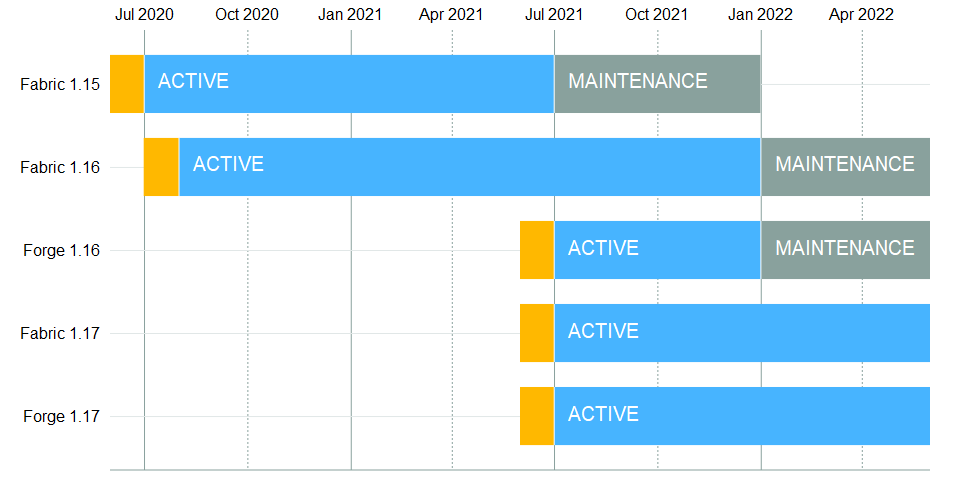
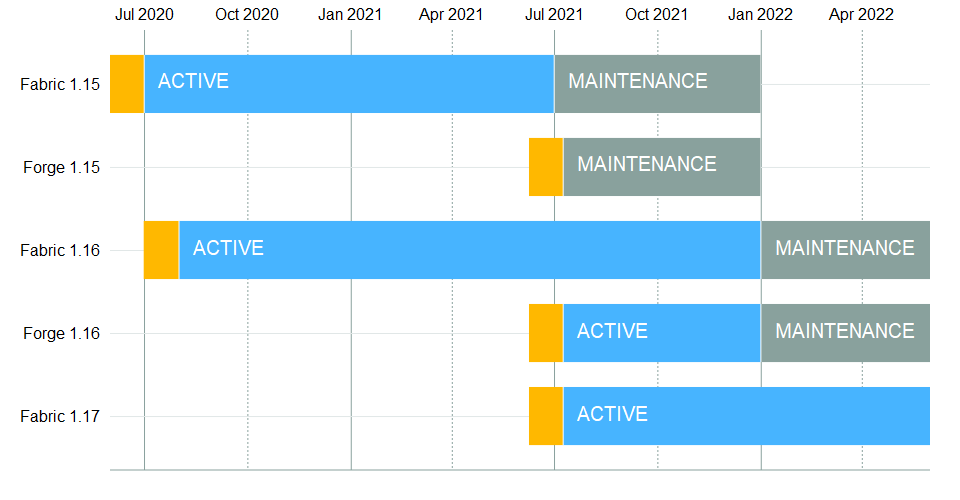
Update armor-visibility dates

diff --git a/out/armor-visibility.html b/out/armor-visibility.html
@@ -34,4 +34,4 @@
   text-anchor: start;
   dominant-baseline: middle;
   text-transform: uppercase;
-} ]]></style></defs><g id="bar-container" transform="translate(110, 30)"><g class="axis axis--x" fill="none" font-size="10" font-family="sans-serif" text-anchor="middle"><g class="tick" opacity="1" transform="translate(34.02625570776256,0)"><line stroke="#89a19d" y2="440" x1="0.5" x2="0.5"></line><text fill="#000" y="0" x="0.5" dy="-10">Jul 2020</text></g><g class="tick" opacity="1" transform="translate(137.36872146118722,0)"><line stroke="#89a19d" y2="440" x1="0.5" x2="0.5" stroke-dasharray="2,2"></line><text fill="#000" y="0" x="0.5" dy="-10">Oct 2020</text></g><g class="tick" opacity="1" transform="translate(240.75799086757988,0)"><line stroke="#89a19d" y2="440" x1="0.5" x2="0.5"></line><text fill="#000" y="0" x="0.5" dy="-10">Jan 2021</text></g><g class="tick" opacity="1" transform="translate(341.8070776255708,0)"><line stroke="#89a19d" y2="440" x1="0.5" x2="0.5" stroke-dasharray="2,2"></line><text fill="#000" y="0" x="0.5" dy="-10">Apr 2021</text></g><g class="tick" opacity="1" transform="translate(444.0262557077626,0)"><line stroke="#89a19d" y2="440" x1="0.5" x2="0.5"></line><text fill="#000" y="0" x="0.5" dy="-10">Jul 2021</text></g><g class="tick" opacity="1" transform="translate(547.3687214611873,0)"><line stroke="#89a19d" y2="440" x1="0.5" x2="0.5" stroke-dasharray="2,2"></line><text fill="#000" y="0" x="0.5" dy="-10">Oct 2021</text></g><g class="tick" opacity="1" transform="translate(650.7579908675799,0)"><line stroke="#89a19d" y2="440" x1="0.5" x2="0.5"></line><text fill="#000" y="0" x="0.5" dy="-10">Jan 2022</text></g><g class="tick" opacity="1" transform="translate(751.8070776255707,0)"><line stroke="#89a19d" y2="440" x1="0.5" x2="0.5" stroke-dasharray="2,2"></line><text fill="#000" y="0" x="0.5" dy="-10">Apr 2022</text></g></g><g class="axis axis--y" fill="none" font-size="10" font-family="sans-serif" text-anchor="start"><g class="tick" opacity="1" transform="translate(0,53.96226415094337)"><line stroke="#e1e7e7" x2="820" y1="0.5" y2="0.5"></line><text fill="#000" x="0" y="0.5" dy="0.32em" dx="-10">  Fabric 1.15</text></g><g class="tick" opacity="1" transform="translate(0,136.98113207547166)"><line stroke="#e1e7e7" x2="820" y1="0.5" y2="0.5"></line><text fill="#000" x="0" y="0.5" dy="0.32em" dx="-10">  Fabric 1.16</text></g><g class="tick" opacity="1" transform="translate(0,219.99999999999997)"><line stroke="#e1e7e7" x2="820" y1="0.5" y2="0.5"></line><text fill="#000" x="0" y="0.5" dy="0.32em" dx="-10">  Forge 1.16</text></g><g class="tick" opacity="1" transform="translate(0,303.0188679245283)"><line stroke="#e1e7e7" x2="820" y1="0.5" y2="0.5"></line><text fill="#000" x="0" y="0.5" dy="0.32em" dx="-10">  Fabric 1.17</text></g><g class="tick" opacity="1" transform="translate(0,386.0377358490566)"><line stroke="#e1e7e7" x2="820" y1="0.5" y2="0.5"></line><text fill="#000" x="0" y="0.5" dy="0.32em" dx="-10">  Forge 1.17</text></g><line y1="440" y2="440" x2="820" stroke="#89a19d"></line></g><g><rect class="bar maintenance" x="443.69863013698637" y="24.90566037735846" width="206.68493150684924" height="58.113207547169814"></rect><rect class="bar-join maintenance" x="442.69863013698637" y="24.90566037735846" width="2" height="58.113207547169814" style="opacity: 1;"></rect><text class="label" x="458.69863013698637" y="55.96226415094337" style="opacity: 1;">maintenance</text></g><g><rect class="bar active" x="33.6986301369863" y="24.90566037735846" width="410.00000000000006" height="58.113207547169814"></rect><rect class="bar-join active" x="32.6986301369863" y="24.90566037735846" width="2" height="58.113207547169814" style="opacity: 1;"></rect><text class="label" x="48.6986301369863" y="55.96226415094337" style="opacity: 1;">active</text></g><g><rect class="bar unstable" x="0" y="24.90566037735846" width="33.6986301369863" height="58.113207547169814"></rect><rect class="bar-join unstable" x="-1" y="24.90566037735846" width="2" height="58.113207547169814" style="opacity: 0;"></rect><text class="label" x="15" y="55.96226415094337" style="opacity: 0;">unstable</text></g><g><rect class="bar maintenance" x="650.3835616438356" y="107.92452830188677" width="169.6164383561644" height="58.113207547169814"></rect><rect class="bar-join maintenance" x="649.3835616438356" y="107.92452830188677" width="2" height="58.113207547169814" style="opacity: 1;"></rect><text class="label" x="665.3835616438356" y="138.98113207547166" style="opacity: 1;">maintenance</text></g><g><rect class="bar active" x="68.52054794520548" y="107.92452830188677" width="581.8630136986301" height="58.113207547169814"></rect><rect class="bar-join active" x="67.52054794520548" y="107.92452830188677" width="2" height="58.113207547169814" style="opacity: 1;"></rect><text class="label" x="83.52054794520548" y="138.98113207547166" style="opacity: 1;">active</text></g><g><rect class="bar unstable" x="33.6986301369863" y="107.92452830188677" width="34.821917808219176" height="58.113207547169814"></rect><rect class="bar-join unstable" x="32.6986301369863" y="107.92452830188677" width="2" height="58.113207547169814" style="opacity: 0;"></rect><text class="label" x="48.6986301369863" y="138.98113207547166" style="opacity: 0;">unstable</text></g><g><rect class="bar maintenance" x="650.3835616438356" y="190.94339622641508" width="169.6164383561644" height="58.113207547169814"></rect><rect class="bar-join maintenance" x="649.3835616438356" y="190.94339622641508" width="2" height="58.113207547169814" style="opacity: 1;"></rect><text class="label" x="665.3835616438356" y="221.99999999999997" style="opacity: 1;">maintenance</text></g><g><rect class="bar active" x="443.69863013698637" y="190.94339622641508" width="206.68493150684924" height="58.113207547169814"></rect><rect class="bar-join active" x="442.69863013698637" y="190.94339622641508" width="2" height="58.113207547169814" style="opacity: 1;"></rect><text class="label" x="458.69863013698637" y="221.99999999999997" style="opacity: 1;">active</text></g><g><rect class="bar unstable" x="410" y="190.94339622641508" width="33.69863013698637" height="58.113207547169814"></rect><rect class="bar-join unstable" x="409" y="190.94339622641508" width="2" height="58.113207547169814" style="opacity: 0;"></rect><text class="label" x="425" y="221.99999999999997" style="opacity: 0;">unstable</text></g><g><rect class="bar active" x="443.69863013698637" y="273.9622641509434" width="376.30136986301363" height="58.113207547169814"></rect><rect class="bar-join active" x="442.69863013698637" y="273.9622641509434" width="2" height="58.113207547169814" style="opacity: 1;"></rect><text class="label" x="458.69863013698637" y="305.0188679245283" style="opacity: 1;">active</text></g><g><rect class="bar unstable" x="410" y="273.9622641509434" width="33.69863013698637" height="58.113207547169814"></rect><rect class="bar-join unstable" x="409" y="273.9622641509434" width="2" height="58.113207547169814" style="opacity: 0;"></rect><text class="label" x="425" y="305.0188679245283" style="opacity: 0;">unstable</text></g><g><rect class="bar active" x="443.69863013698637" y="356.9811320754717" width="376.30136986301363" height="58.113207547169814"></rect><rect class="bar-join active" x="442.69863013698637" y="356.9811320754717" width="2" height="58.113207547169814" style="opacity: 1;"></rect><text class="label" x="458.69863013698637" y="388.0377358490566" style="opacity: 1;">active</text></g><g><rect class="bar unstable" x="410" y="356.9811320754717" width="33.69863013698637" height="58.113207547169814"></rect><rect class="bar-join unstable" x="409" y="356.9811320754717" width="2" height="58.113207547169814" style="opacity: 0;"></rect><text class="label" x="425" y="388.0377358490566" style="opacity: 0;">unstable</text></g></g></svg></body></html>
+} ]]></style></defs><g id="bar-container" transform="translate(110, 30)"><g class="axis axis--x" fill="none" font-size="10" font-family="sans-serif" text-anchor="middle"><g class="tick" opacity="1" transform="translate(34.02625570776256,0)"><line stroke="#89a19d" y2="440" x1="0.5" x2="0.5"></line><text fill="#000" y="0" x="0.5" dy="-10">Jul 2020</text></g><g class="tick" opacity="1" transform="translate(137.36872146118722,0)"><line stroke="#89a19d" y2="440" x1="0.5" x2="0.5" stroke-dasharray="2,2"></line><text fill="#000" y="0" x="0.5" dy="-10">Oct 2020</text></g><g class="tick" opacity="1" transform="translate(240.75799086757988,0)"><line stroke="#89a19d" y2="440" x1="0.5" x2="0.5"></line><text fill="#000" y="0" x="0.5" dy="-10">Jan 2021</text></g><g class="tick" opacity="1" transform="translate(341.8070776255708,0)"><line stroke="#89a19d" y2="440" x1="0.5" x2="0.5" stroke-dasharray="2,2"></line><text fill="#000" y="0" x="0.5" dy="-10">Apr 2021</text></g><g class="tick" opacity="1" transform="translate(444.0262557077626,0)"><line stroke="#89a19d" y2="440" x1="0.5" x2="0.5"></line><text fill="#000" y="0" x="0.5" dy="-10">Jul 2021</text></g><g class="tick" opacity="1" transform="translate(547.3687214611873,0)"><line stroke="#89a19d" y2="440" x1="0.5" x2="0.5" stroke-dasharray="2,2"></line><text fill="#000" y="0" x="0.5" dy="-10">Oct 2021</text></g><g class="tick" opacity="1" transform="translate(650.7579908675799,0)"><line stroke="#89a19d" y2="440" x1="0.5" x2="0.5"></line><text fill="#000" y="0" x="0.5" dy="-10">Jan 2022</text></g><g class="tick" opacity="1" transform="translate(751.8070776255707,0)"><line stroke="#89a19d" y2="440" x1="0.5" x2="0.5" stroke-dasharray="2,2"></line><text fill="#000" y="0" x="0.5" dy="-10">Apr 2022</text></g></g><g class="axis axis--y" fill="none" font-size="10" font-family="sans-serif" text-anchor="start"><g class="tick" opacity="1" transform="translate(0,53.96226415094337)"><line stroke="#e1e7e7" x2="820" y1="0.5" y2="0.5"></line><text fill="#000" x="0" y="0.5" dy="0.32em" dx="-10">  Fabric 1.15</text></g><g class="tick" opacity="1" transform="translate(0,136.98113207547166)"><line stroke="#e1e7e7" x2="820" y1="0.5" y2="0.5"></line><text fill="#000" x="0" y="0.5" dy="0.32em" dx="-10">  Forge 1.15</text></g><g class="tick" opacity="1" transform="translate(0,219.99999999999997)"><line stroke="#e1e7e7" x2="820" y1="0.5" y2="0.5"></line><text fill="#000" x="0" y="0.5" dy="0.32em" dx="-10">  Fabric 1.16</text></g><g class="tick" opacity="1" transform="translate(0,303.0188679245283)"><line stroke="#e1e7e7" x2="820" y1="0.5" y2="0.5"></line><text fill="#000" x="0" y="0.5" dy="0.32em" dx="-10">  Forge 1.16</text></g><g class="tick" opacity="1" transform="translate(0,386.0377358490566)"><line stroke="#e1e7e7" x2="820" y1="0.5" y2="0.5"></line><text fill="#000" x="0" y="0.5" dy="0.32em" dx="-10">  Fabric 1.17</text></g><line y1="440" y2="440" x2="820" stroke="#89a19d"></line></g><g><rect class="bar maintenance" x="443.69863013698637" y="24.90566037735846" width="206.68493150684924" height="58.113207547169814"></rect><rect class="bar-join maintenance" x="442.69863013698637" y="24.90566037735846" width="2" height="58.113207547169814" style="opacity: 1;"></rect><text class="label" x="458.69863013698637" y="55.96226415094337" style="opacity: 1;">maintenance</text></g><g><rect class="bar active" x="33.6986301369863" y="24.90566037735846" width="410.00000000000006" height="58.113207547169814"></rect><rect class="bar-join active" x="32.6986301369863" y="24.90566037735846" width="2" height="58.113207547169814" style="opacity: 1;"></rect><text class="label" x="48.6986301369863" y="55.96226415094337" style="opacity: 1;">active</text></g><g><rect class="bar unstable" x="0" y="24.90566037735846" width="33.6986301369863" height="58.113207547169814"></rect><rect class="bar-join unstable" x="-1" y="24.90566037735846" width="2" height="58.113207547169814" style="opacity: 0;"></rect><text class="label" x="15" y="55.96226415094337" style="opacity: 0;">unstable</text></g><g><rect class="bar maintenance" x="452.6849315068493" y="107.92452830188677" width="197.6986301369863" height="58.113207547169814"></rect><rect class="bar-join maintenance" x="451.6849315068493" y="107.92452830188677" width="2" height="58.113207547169814" style="opacity: 1;"></rect><text class="label" x="467.6849315068493" y="138.98113207547166" style="opacity: 1;">maintenance</text></g><g><rect class="bar unstable" x="418.986301369863" y="107.92452830188677" width="33.69863013698631" height="58.113207547169814"></rect><rect class="bar-join unstable" x="417.986301369863" y="107.92452830188677" width="2" height="58.113207547169814" style="opacity: 0;"></rect><text class="label" x="433.986301369863" y="138.98113207547166" style="opacity: 0;">unstable</text></g><g><rect class="bar maintenance" x="650.3835616438356" y="190.94339622641508" width="169.6164383561644" height="58.113207547169814"></rect><rect class="bar-join maintenance" x="649.3835616438356" y="190.94339622641508" width="2" height="58.113207547169814" style="opacity: 1;"></rect><text class="label" x="665.3835616438356" y="221.99999999999997" style="opacity: 1;">maintenance</text></g><g><rect class="bar active" x="68.52054794520548" y="190.94339622641508" width="581.8630136986301" height="58.113207547169814"></rect><rect class="bar-join active" x="67.52054794520548" y="190.94339622641508" width="2" height="58.113207547169814" style="opacity: 1;"></rect><text class="label" x="83.52054794520548" y="221.99999999999997" style="opacity: 1;">active</text></g><g><rect class="bar unstable" x="33.6986301369863" y="190.94339622641508" width="34.821917808219176" height="58.113207547169814"></rect><rect class="bar-join unstable" x="32.6986301369863" y="190.94339622641508" width="2" height="58.113207547169814" style="opacity: 0;"></rect><text class="label" x="48.6986301369863" y="221.99999999999997" style="opacity: 0;">unstable</text></g><g><rect class="bar maintenance" x="650.3835616438356" y="273.9622641509434" width="169.6164383561644" height="58.113207547169814"></rect><rect class="bar-join maintenance" x="649.3835616438356" y="273.9622641509434" width="2" height="58.113207547169814" style="opacity: 1;"></rect><text class="label" x="665.3835616438356" y="305.0188679245283" style="opacity: 1;">maintenance</text></g><g><rect class="bar active" x="452.6849315068493" y="273.9622641509434" width="197.6986301369863" height="58.113207547169814"></rect><rect class="bar-join active" x="451.6849315068493" y="273.9622641509434" width="2" height="58.113207547169814" style="opacity: 1;"></rect><text class="label" x="467.6849315068493" y="305.0188679245283" style="opacity: 1;">active</text></g><g><rect class="bar unstable" x="418.986301369863" y="273.9622641509434" width="33.69863013698631" height="58.113207547169814"></rect><rect class="bar-join unstable" x="417.986301369863" y="273.9622641509434" width="2" height="58.113207547169814" style="opacity: 0;"></rect><text class="label" x="433.986301369863" y="305.0188679245283" style="opacity: 0;">unstable</text></g><g><rect class="bar active" x="452.6849315068493" y="356.9811320754717" width="367.3150684931507" height="58.113207547169814"></rect><rect class="bar-join active" x="451.6849315068493" y="356.9811320754717" width="2" height="58.113207547169814" style="opacity: 1;"></rect><text class="label" x="467.6849315068493" y="388.0377358490566" style="opacity: 1;">active</text></g><g><rect class="bar unstable" x="418.986301369863" y="356.9811320754717" width="33.69863013698631" height="58.113207547169814"></rect><rect class="bar-join unstable" x="417.986301369863" y="356.9811320754717" width="2" height="58.113207547169814" style="opacity: 0;"></rect><text class="label" x="433.986301369863" y="388.0377358490566" style="opacity: 0;">unstable</text></g></g></svg></body></html>
